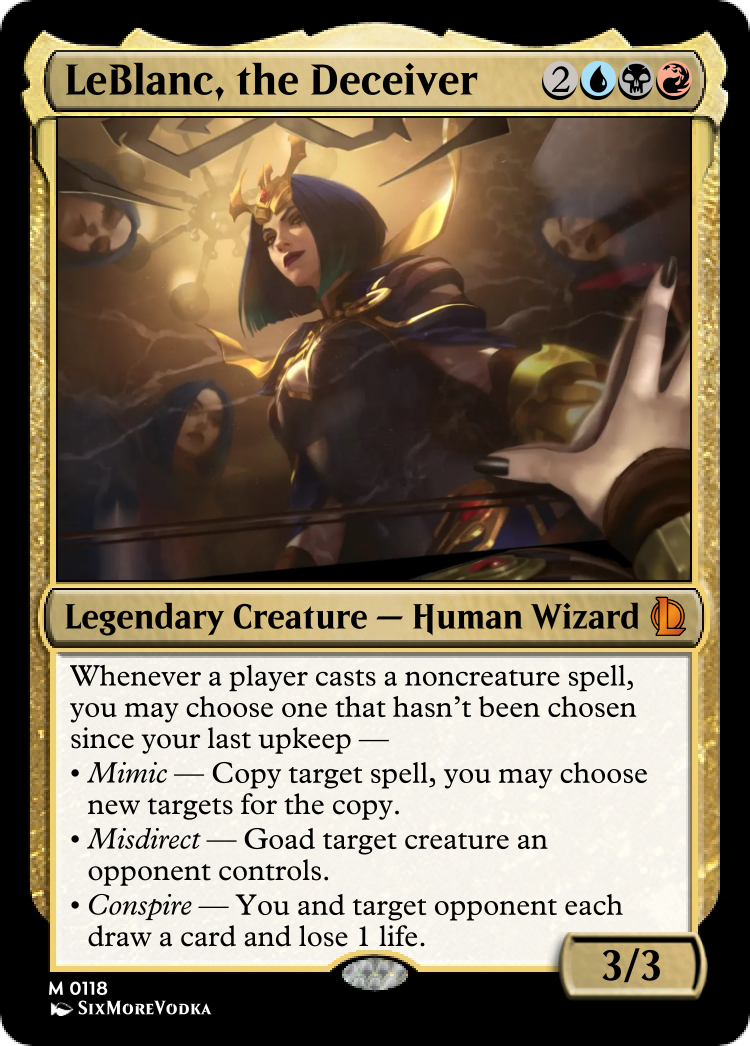
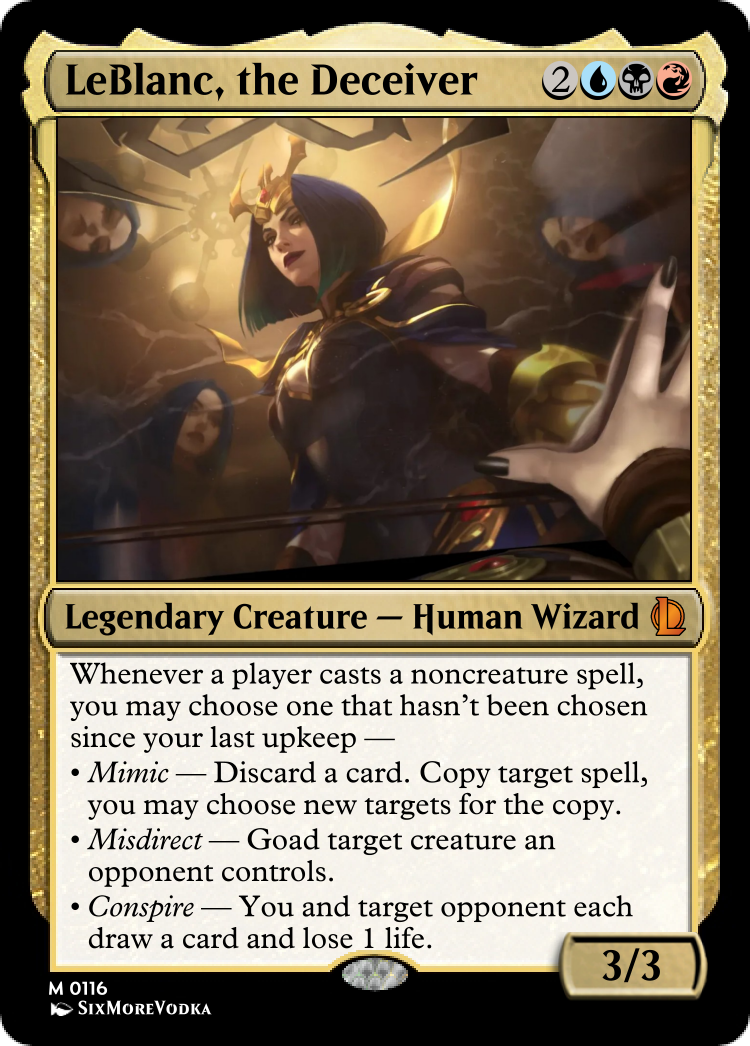
Renekton and Nasus

Changed region(s): [[0.092, 0.6119, 0.8587, 0.9178]]

diff --git a/image_metadata.py b/image_metadata.py
@@ -595,7 +595,7 @@ IMAGE_METADATA = {
         'title': 'LeBlanc, the Deceiver',
         'type': 'Legendary Creature - Human Wizard',
         'text_box': """Whenever a player casts a noncreature spell, you may choose one that hasn’t been chosen since your last upkeep —
-                \n• Mimic — Copy target spell, you may choose new targets for the copy.
+                \n• Mimic — Discard a card. Copy target spell, you may choose new targets for the copy.
                 \n• Misdirect — Goad target creature an opponent controls.
                 \n• Conspire — You and target opponent each draw a card and lose 1 life.""",
         'artist': 'SixMoreVodka',
@@ -647,6 +647,16 @@ IMAGE_METADATA = {
         'color': ['White', 'Black'],
         'region': ['Demacia'],
     },
+    'Nasus_Curator_of_the_Sands.png': {
+        'title': 'Nasus, Curator of the Sands',
+        'type': 'Legendary Creature - Dog Demigod',
+        'text_box': """Lifelink, wither, indestructible
+                \nNasus has trample as long as its power is 10 or greater.
+                \nWhenever a creature with a -1/-1 counter on it dies, put a +1/+1 counter on Nasus, then draw a card.""",
+        'artist': 'Will Gist',
+        'color': ['Black', 'Green', 'Blue', 'White'],
+        'region': ['Shurima']
+    },
     'Nidalee_Bestial_Huntress.png': {
         'title': 'Nidalee, Bestial Huntress // Nidalee, Cat Form',
         'type': 'Legendary Creature - Human Scout',
@@ -659,7 +669,8 @@ IMAGE_METADATA = {
     'Qiyana_Elemental_Empress.png': {
         'title': 'Qiyana, Elemental Empress',
         'type': 'Legendary Creature - Human Shaman',
-        'text_box': """T, Sacrifice a land: Exile cards from the top of your library until you exile a land card. Reveal that card and put it into your hand. You may cast one of the exiled nonland cards without paying its mana cost if it shares a color with a color the revealed land could produce. Put the remaining exiled cards on the bottom of your library in a random order. """,
+        'text_box': """Landfall — Whenever a land enters the battlefield under your control, exile the top card of your library with a Terrain counter on it. 
+                \nT, Sacrifice a land: You may cast a card exiled with a Terrain counter on it without paying its mana cost if it shares a color with mana the sacrificed land could produce. """,
         'artist': 'Qi Jingyan',
         'color': ['Red', 'Black', 'Green', 'Blue'],
         'region': ['Ixtal'],
@@ -671,6 +682,16 @@ IMAGE_METADATA = {
         'artist': 'Grafit',
         'color': ['Black'],
         'region': ['Zaun']
+    },
+    'Renekton_Butcher_of_the_Sands.png': {
+        'title': 'Renekton, Butcher of the Sands',
+        'type': 'Legendary Creature - Crocodile Demigod',
+        'text_box': """Menace, indestructible
+                \nWhen Renekton enters, creatures you control gain haste and double strike until end of turn.
+                \nWhenever a nontoken creature an opponent controls dies after being dealt damage by Renekton this turn, you may exile that creature and Renekton. Return those cards to the battlefield under your control at the beginning of your next upkeep.""",
+        'artist': 'Will Gist',
+        'color': ['Black', 'Green', 'Red', 'White'],
+        'region': ['Shurima']
     },
     'Rengar_Pridestalker.png': {
         'title': 'Rengar, Pridestalker',
@@ -793,9 +814,9 @@ IMAGE_METADATA = {
         'title': 'Taliyah, Stoneweaver',
         'type': 'Legendary Creature - Human Wizard',
         'text_box': """Landfall — Whenever a land enters the battlefield under your control, you may have it become a 0/4 red Wall creature with defender and haste in addition to its other types. 
-                \nAs long as it’s your turn, Walls you control assign combat damage equal to their toughness rather than its power and can attack as though it didn’t have defender.""",
+                \nAs long as it’s your turn, Walls you control assign combat damage equal to their toughness rather than their power and can attack as though they didn’t have defender.""",
         'artist': 'Qi Mang',
-        'color': ['Red', 'Green', 'White', 'Blue'],
+        'color': ['Red', 'Green', 'White'],
         'region': ['Shurima']
     },
     'Thresh_Chain_Warden.png': {
@@ -885,7 +906,7 @@ IMAGE_METADATA = {
     'Volibear_Relentless_Storm.png': {
         'title': 'Volibear, Relentless Storm',
         'type': 'Legendary Snow Creature - Bear Spirit God',
-        'text_box': """You can’t cast this spell unless snow creatures you control have total power 15 or greater.
+        'text_box': """Volibear costs X less to cast, where X is the total power of snow creatures you control.
                 \nIndestructible, haste
                 \nStormbringer — When Volibear enters, tap all non-snow permanents. Until end of turn, whenever Volibear deals combat damage to an opponent, it deals that much damage to each other opponent.""",
         'artist': 'G G 568250072',
